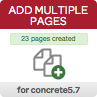
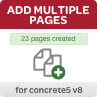
- Update to v8 only, modernise codebase - Fix issue with page paths being wrong in 8.5.2

Changed region(s): [[0.0619, 0.0619, 0.9278, 0.2784], [0.1546, 0.866, 0.866, 0.9588], [0.2165, 0.3711, 0.8041, 0.433]]

diff --git a/controllers/single_page/dashboard/sitemap/add_multiple_pages.php b/controllers/single_page/dashboard/sitemap/add_multiple_pages.php
@@ -1,22 +1,17 @@
 <?php
-
 namespace Concrete\Package\MsvAddMultiplePages\Controller\SinglePage\Dashboard\Sitemap;
 
-use \Concrete\Core\Page\Controller\DashboardPageController;
-use Database;
-use Config;
-use File;
-use PageTemplate;
-use PageType;
-use Page;
+use Concrete\Core\Page\Controller\DashboardPageController;
+use Concrete\Core\Routing\Redirect;
+use Concrete\Core\Page\Template as PageTemplate;
+use Concrete\Core\Page\Type\Type as PageType;
+use Concrete\Core\Page\Page;
 
-defined('C5_EXECUTE') or die("Access Denied.");
 class AddMultiplePages extends DashboardPageController
 {
-
     public function view($pagetypehandle = '', $success = 0) {
 
-        $homepage =  Page::getByID(HOME_CID);
+        $homepage =  Page::getByID(Page::getHomePageID());
         $emptysite = ($homepage->getFirstChild('cDisplayOrder asc', true) === false);
         $this->set('emptysite', $emptysite);
 
@@ -28,6 +23,7 @@ class AddMultiplePages extends DashboardPageController
         }
 
         $this->set('pageTypes', $pageTypesSelect);
+        $this->set('app', $this->app);
 
         $onepagetype =  (count($pageTypesSelect) == 1);
         $this->set('onepagetype', $onepagetype);
@@ -45,7 +41,7 @@ class AddMultiplePages extends DashboardPageController
                 $this->set('pageTemplates', $pageTemplatesSelect);
                 $this->set('pageType', $pageType);
             } else {
-                $this->redirect('/dashboard/sitemap/add_multiple_pages/');
+                return Redirect::to('/dashboard/sitemap/add_multiple_pages/');
             }
 
             if ($success > 0) {
@@ -54,7 +50,7 @@ class AddMultiplePages extends DashboardPageController
 
         } else {
             if ($onepagetype) {
-                $this->redirect('/dashboard/sitemap/add_multiple_pages/' . array_pop($pageTypesSelect)->getPageTypeHandle());
+                return Redirect::to('/dashboard/sitemap/add_multiple_pages/' . array_pop($pageTypesSelect)->getPageTypeHandle());
             }
         }
 
@@ -90,7 +86,7 @@ class AddMultiplePages extends DashboardPageController
                 $parentPage = \Page::getByID($this->post('parent_page'));
                 $parentList = array($parentPage);
                 $currentLevel = 0;
-                $pageTemplate = \PageTemplate::getByID($this->post('page_template'));
+                $pageTemplate = PageTemplate::getByID($this->post('page_template'));
 
                 if (is_object($parentPage) && is_object($pageType) && is_object($pageTemplate)) {
                     foreach ($pagenames as $pagename) {
@@ -117,17 +113,16 @@ class AddMultiplePages extends DashboardPageController
                         $d = $pageType->createDraft($pageTemplate);
                         $d->setPageDraftTargetParentPageID($parentList[$currentLevel]->getCollectionID());
                         $pageType->savePageTypeComposerForm($d);
-                        $pageType->publish($d);
                         $d->updateCollectionName($pagename);
+                        $pageType->publish($d);
                         $parentList[$currentLevel+1] = $d;
 
                         $numpages++;
                     }
                 }
 
-                $this->redirect('/dashboard/sitemap/add_multiple_pages/' . $pagetypehandle . '/' . $numpages);
+                return Redirect::to('/dashboard/sitemap/add_multiple_pages/' . $pagetypehandle . '/' . $numpages);
             }
         }
     }
 }
-?>

diff --git a/single_pages/dashboard/sitemap/add_multiple_pages.php b/single_pages/dashboard/sitemap/add_multiple_pages.php
@@ -1,6 +1,6 @@
 <?php defined('C5_EXECUTE') or die("Access Denied.");
-$form = $ih = Core::make('helper/form');
-$ci = Core::make('helper/concrete/ui');
+$form = $app->make('helper/form');
+$ci = $app->make('helper/concrete/ui');
 ?>
 
 <?php if (isset($pageType)) { ?>
@@ -44,10 +44,10 @@ $ci = Core::make('helper/concrete/ui');
         ob_start();
         $pageType->renderComposerOutputForm(null, $parent);
         $output = trim(ob_get_clean());
+        $haslabel = (strpos($output, 'label') !== false);
         ?>
 
         <?php if (strpos($output, 'label') !== false) { ?>
-
         <div class="panel panel-default">
             <div class="panel-heading">
                 <h3 class="panel-title"><?php echo t('Page Defaults'); ?></h3>
@@ -59,19 +59,20 @@ $ci = Core::make('helper/concrete/ui');
                 <div id="defaults" style="display: none">
                     <?php echo $output; ?>
                 </div>
-                <?php } ?>
-
-                <div class="ccm-dashboard-form-actions-wrapper">
-                    <div class="ccm-dashboard-form-actions">
-                        <?php if (!$onepagetype) { ?>
-                            <?php echo $ci->button(t('Select Page Type'), $view->url('/dashboard/sitemap/add_multiple_pages'), 'left'); ?>
-                        <?php } ?>
-                        <button class="pull-right btn btn-success"
-                                type="submit"><?php echo t('Create Pages') ?></button>
-                    </div>
-                </div>
             </div>
         </div>
+        <?php } ?>
+
+        <div class="ccm-dashboard-form-actions-wrapper">
+            <div class="ccm-dashboard-form-actions">
+                <?php if (!$onepagetype) { ?>
+                    <?php echo $ci->button(t('Select Page Type'), $view->url('/dashboard/sitemap/add_multiple_pages'), 'left'); ?>
+                <?php } ?>
+                <button class="pull-right btn btn-success"
+                        type="submit"><?php echo t('Create Pages') ?></button>
+            </div>
+        </div>
+
     </form>
 
     <script>
@@ -93,8 +94,8 @@ $ci = Core::make('helper/concrete/ui');
             </tr>
         <?php } ?>
     </table>
-    <?php } ?>
 </fieldset>
+<?php } ?>
 
 <?php
 Core::make('help')->display('<strong>'.t('Nested Pages').'</strong><br />' . t('To create nested pages, indent child page names using dashes, e.g. <br /><br />

diff --git a/controller.php b/controller.php
@@ -1,15 +1,14 @@
 <?php
-
 // Author: Ryan Hewitt - http://www.mesuva.com.au
 namespace Concrete\Package\MsvAddMultiplePages;
-use Package;
-use SinglePage;
+use Concrete\Core\Package\Package;
+use Concrete\Core\Page\Single as SinglePage;
 
 class Controller extends Package {
 
     protected $pkgHandle = 'msv_add_multiple_pages';
-    protected $appVersionRequired = '5.7.5.2';
-    protected $pkgVersion = '1.0.1';
+    protected $appVersionRequired = '8.0';
+    protected $pkgVersion = '1.1';
 
     public function getPackageDescription() {
         return t("Add multiple pages to your site at a time");
@@ -21,10 +20,6 @@ class Controller extends Package {
 
     public function install() {
         $pkg = parent::install();
-
         SinglePage::add('/dashboard/sitemap/add_multiple_pages',$pkg);
     }
-
 }
-
-?>
